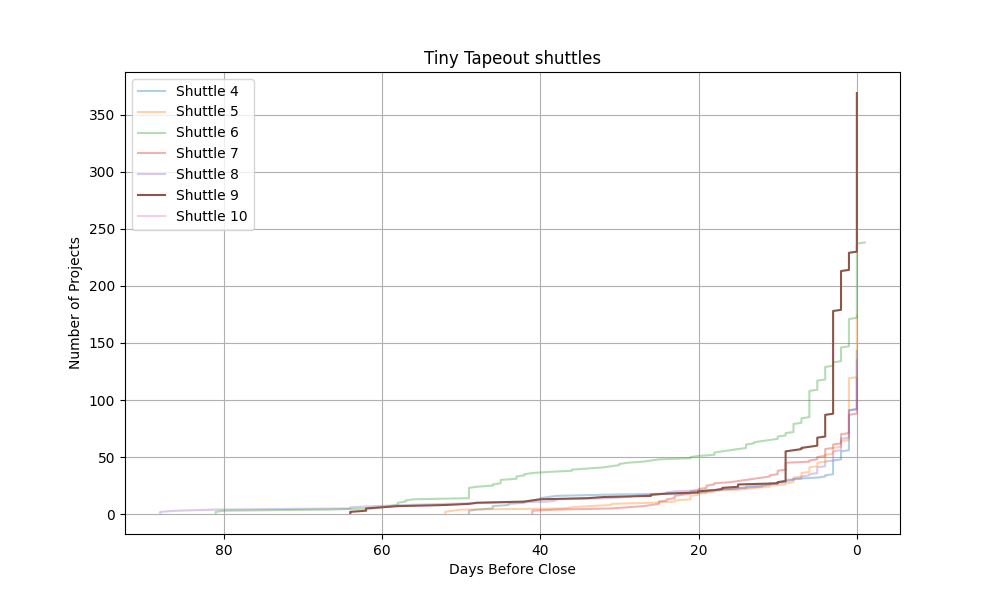
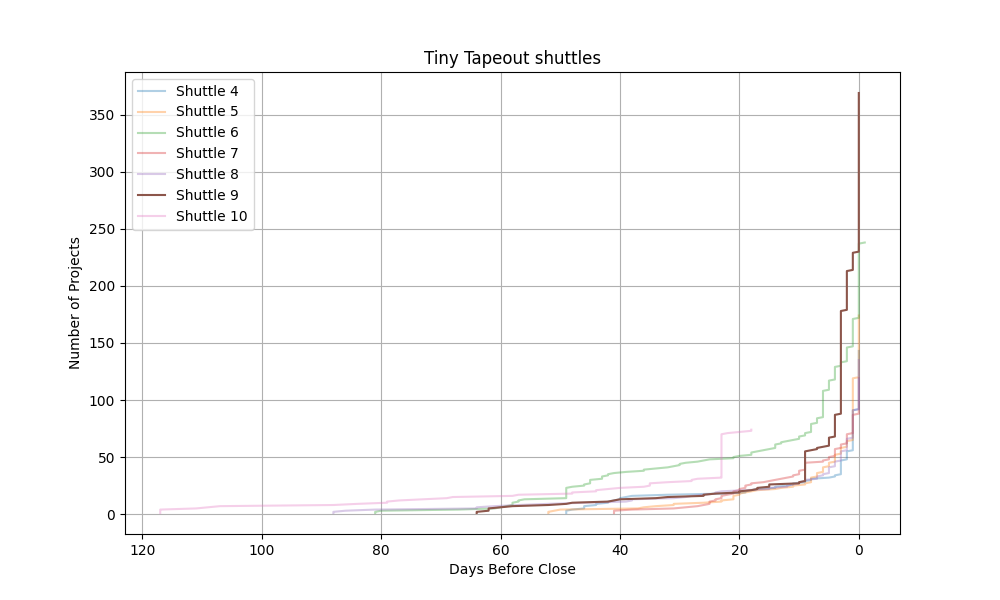
update

diff --git a/parse.py b/parse.py
@@ -5,7 +5,7 @@ import matplotlib.pyplot as plt
 df = pd.read_csv('data.csv')
 
 # Add deadlines for each shuttle
-shuttle_deadlines = {4: "2023-09-08", 5: "2023-11-04", 6: "2024-04-19", 7: "2024-06-01", 8: "2024-09-06", 9: "2024-11-10"}
+shuttle_deadlines = {4: "2023-09-08", 5: "2023-11-04", 6: "2024-04-19", 7: "2024-06-01", 8: "2024-09-06", 9: "2024-11-10", 10: "2025-03-10"}
 
 # Convert deadlines to datetime objects
 for shuttle_id, deadline in shuttle_deadlines.items():

diff --git a/README.md b/README.md
@@ -1,3 +1,3 @@
-# Shuttle stats for TT04 05 & 06
+# Shuttle stats for TT04 and beyond
 
 ![stats](tt_shuttles.png)
